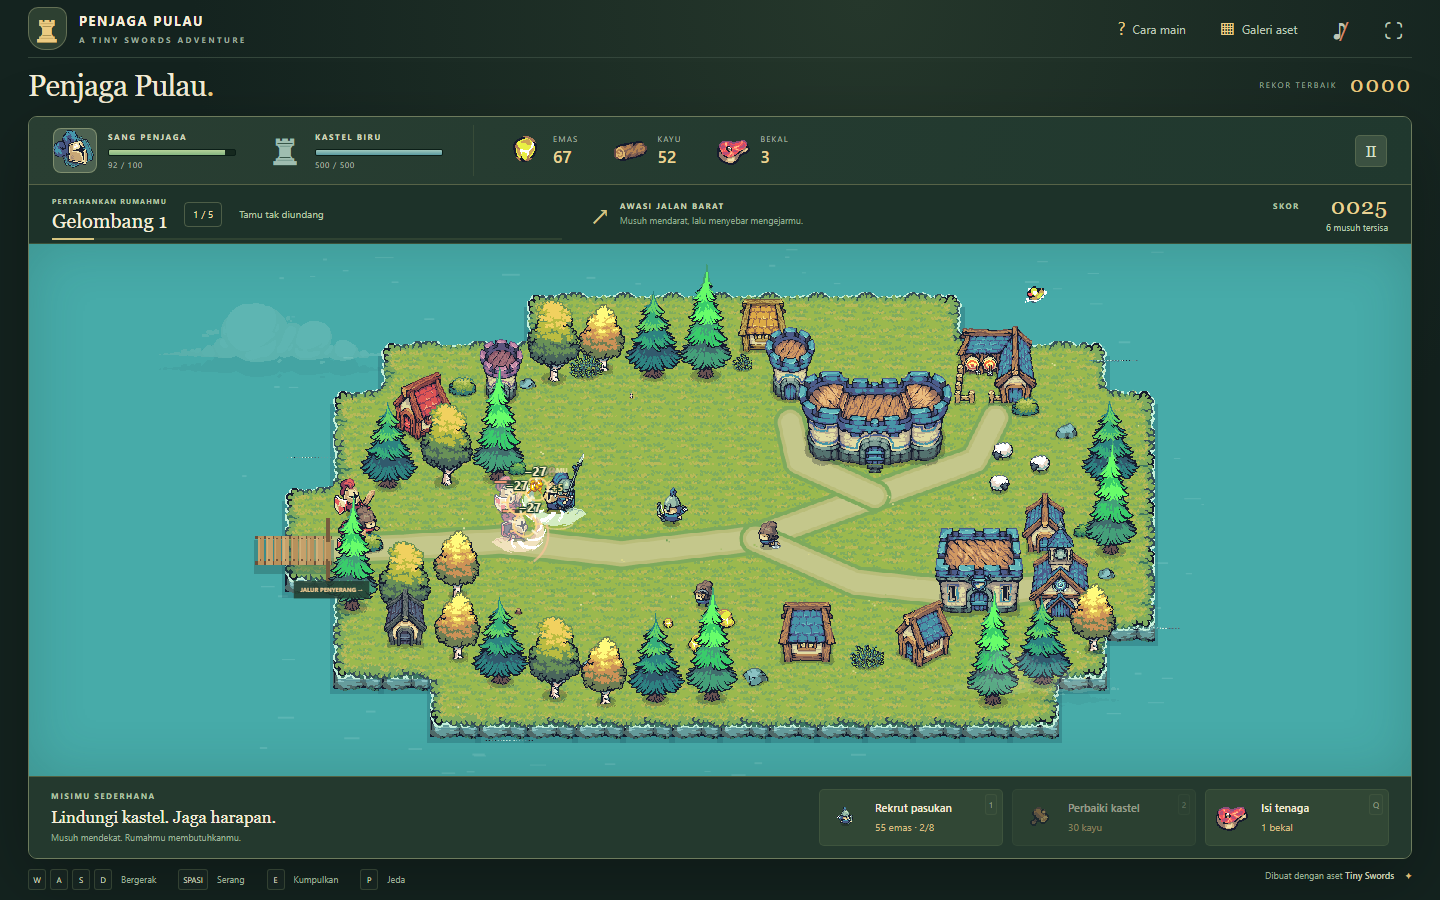
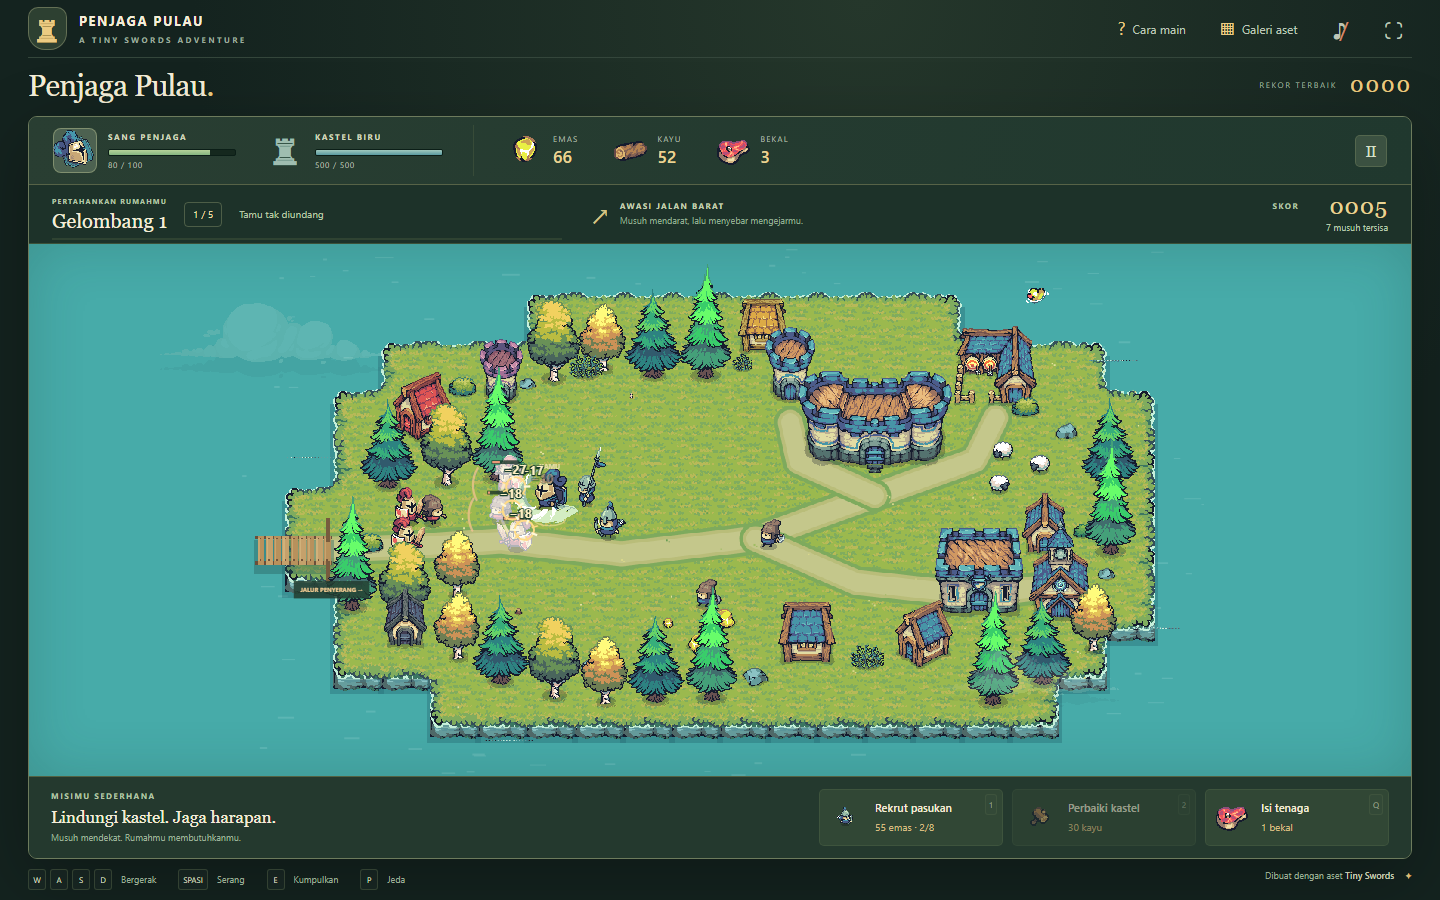
Perbaiki bug & Error Collision

diff --git a/game.js b/game.js
@@ -42,6 +42,29 @@
   const rows = { 1: [6, 14], 2: [3, 17], 3: [2, 18], 4: [2, 18], 5: [1, 18], 6: [1, 18], 7: [2, 18], 8: [2, 17], 9: [4, 16] };
   const land = (c, r) => !!rows[r] && c >= rows[r][0] && c <= rows[r][1];
   const onLand = (x, y) => land(Math.floor(x / TILE), Math.floor(y / TILE)) && x > 80 && x < 1195 && y > 80 && y < 630;
+  function canStand(x, y) {
+    // Stay inside the visible grass edge, including diagonal shore corners.
+    for (let i = 0; i < 8; i++) {
+      const angle = i * Math.PI / 4;
+      if (!onLand(x + Math.cos(angle) * 23, y + Math.sin(angle) * 23)) return false;
+    }
+    return onLand(x, y);
+  }
+  function translateEntity(entity, dx, dy) {
+    const steps = Math.max(1, Math.ceil(Math.hypot(dx, dy) / 4));
+    for (let i = 0; i < steps; i++) {
+      if (canStand(entity.x + dx / steps, entity.y)) entity.x += dx / steps;
+      if (canStand(entity.x, entity.y + dy / steps)) entity.y += dy / steps;
+    }
+  }
+  function keepOnLand(entity) {
+    if (canStand(entity.x, entity.y)) return;
+    for (let radius = 4; radius <= 320; radius += 4) for (let i = 0; i < 24; i++) {
+      const x = entity.x + Math.cos(i * Math.PI / 12) * radius, y = entity.y + Math.sin(i * Math.PI / 12) * radius;
+      if (canStand(x, y)) { entity.x = x; entity.y = y; return; }
+    }
+    entity.x = 788; entity.y = 370;
+  }
   const trees = [
     [200, 330, 1], [153, 488, 2], [222, 505, 3], [292, 554, 4], [349, 589, 1],
     [420, 185, 3], [484, 173, 4], [551, 184, 1], [621, 181, 2],
@@ -49,7 +72,7 @@
     [421, 604, 3], [487, 613, 4], [554, 613, 1], [629, 608, 2],
     [278, 322, 3], [346, 317, 2], [291, 472, 4],
   ].map(([x, y, variant], i) => ({ x, y, variant, seed: i * .71, radius: variant < 3 ? 14 : 12, size: variant < 3 ? 166 : 150, resource: i < 5 || i >= 18 }));
-  const roadEntry = { x: 102, y: 405 };
+  const roadEntry = { x: 110, y: 405 };
   const goldNodes = [[571, 534, 1], [610, 563, 3], [646, 531, 4]].map(([x, y, variant]) => ({ x, y, variant, radius: 13 }));
   const sheep = [[1014, 298], [1063, 316], [1010, 342]].map(([x, y], i) => ({ x, y, originX: x, originY: y, seed: i * 2, cooldown: 0 }));
   const buildings = [
@@ -96,6 +119,7 @@
       }
     }
     for (const tool of ['Axe', 'Pickaxe']) paths.add(blue('Pawn', `Interact ${tool}`));
+    paths.add(blue('Pawn', 'Idle Meat'));
     paths.add(blue('Monk', 'Heal_Effect'));
     for (const b of buildings) paths.add(`Buildings/${b.color} Buildings/${b.name}.png`);
     for (let i = 1; i <= 4; i++) {
@@ -221,6 +245,16 @@
     ctx.fillStyle = color; ctx.fillRect(x - width / 2, y, width * clamp(hp / max, 0, 1), 3);
   }
   function drawUnit(u, isHero = false) {
+    if (isHero && hero.work) {
+      const work = hero.work, progress = clamp(work.elapsed / work.duration, 0, 1);
+      const action = work.node.type === 'wood' ? 'Interact Axe' : work.node.type === 'gold' ? 'Interact Pickaxe' : 'Idle Meat';
+      drawSprite(blue('Pawn', action), u.x, u.y, 136, work.elapsed, spriteFrame(blue('Pawn', action)).count / work.duration, u.facing, 1, true);
+      healthBar(u.x, u.y - 63, progress, 1, '#eed18b', 49);
+      ctx.fillStyle = '#fff1c5'; ctx.font = 'bold 10px Segoe UI'; ctx.textAlign = 'center';
+      ctx.fillText(work.node.type === 'wood' ? 'MENEBANG' : work.node.type === 'gold' ? 'MENAMBANG' : 'MENGAMBIL BEKAL', u.x, u.y - 72);
+      ctx.strokeStyle = '#f4d88baa'; ctx.lineWidth = 2; ctx.beginPath(); ctx.ellipse(work.node.x, work.node.y, 24, 10, 0, 0, Math.PI * 2); ctx.stroke();
+      return;
+    }
     const kind = isHero ? 'Warrior' : u.kind, color = isHero ? 'Blue' : u.color;
     const action = u.attack > 0 ? ({ Warrior: 'Attack1', Archer: 'Shoot', Lancer: 'Right_Attack', Monk: 'Heal', Pawn: 'Idle' }[kind]) : u.moving ? 'Run' : 'Idle';
     const size = kind === 'Lancer' ? (isHero ? 194 : 178) : isHero ? 136 : 113;
@@ -346,10 +380,7 @@
   function move(entity, dx, dy, dt, speed) {
     const len = Math.hypot(dx, dy); entity.moving = len > .05;
     if (!entity.moving) return;
-    const nx = entity.x + dx / len * speed * dt, ny = entity.y + dy / len * speed * dt;
-    const canStand = (x, y) => onLand(x - 11, y) && onLand(x + 11, y) && onLand(x, y + 5);
-    if (canStand(nx, entity.y)) entity.x = nx;
-    if (canStand(entity.x, ny)) entity.y = ny;
+    translateEntity(entity, dx / len * speed * dt, dy / len * speed * dt);
     if (Math.abs(dx) > .1) entity.facing = dx > 0 ? 1 : -1;
     for (const o of obstacleList) {
       const vx = entity.x - o.x, vy = entity.y - o.y, d = Math.hypot(vx, vy), min = o.radius + 10;
@@ -386,6 +417,7 @@
   function startGame() {
     if (!initialized) return;
     Object.assign(hero, { x: 788, y: 370, hp: 100, facing: 1, attack: 0, cooldown: 0, invuln: 0, moving: false, hitFlash: 0, stagger: 0, knockX: 0, knockY: 0, strike: null });
+    hero.work = null;
     castle.hp = 500; castle.hitFlash = 0; gold = 80; wood = 40; food = 3; score = 0; kills = 0; recruitIndex = 0;
     enemies = []; allies = []; effects = []; floaters = []; drops = []; projectiles = []; impacts = []; hitStop = 0; damageDealt = 0; damageTaken = 0;
     for (const s of sheep) s.cooldown = 0;
@@ -433,9 +465,10 @@
     const w = waves[waveIndex], kind = w.types[spawned % w.types.length];
     const lane = [-1, 0, 1, -2, 2][spawned % 5];
     const entry = { x: roadEntry.x + rand(-3, 3), y: roadEntry.y + lane * 7 };
-    const hp = ({ Warrior: 50, Archer: 34, Lancer: 60, Monk: 38, Pawn: 32 }[kind]) + waveIndex * 5;
+    const hp = ({ Warrior: 62, Archer: 43, Lancer: 82, Monk: 48, Pawn: 38 }[kind]) + waveIndex * 9;
     enemies.push({ x: entry.x, y: entry.y, kind, color: waveIndex === 4 ? ['Red', 'Purple', 'Yellow', 'Black'][spawned % 4] : w.color, hp, maxHp: hp, facing: 1, moving: false, attack: 0, cooldown: rand(.1, .6), seed: rand(0, 10), speed: kind === 'Lancer' ? 59 : kind === 'Pawn' ? 75 : 66, team: 'enemy', entering: true, lane, flankAngle: spawned * 2.399963 + waveIndex * .8, flankSign: spawned % 2 ? -1 : 1, hitFlash: 0, stagger: 0, knockX: 0, knockY: 0, strike: null });
     addEffect('Particle FX/Dust_02.png', entry.x, entry.y, 48); spawned++;
+    const enemy = enemies[enemies.length - 1]; enemy.speed += waveIndex * 5; enemy.chargeCooldown = 2; enemy.charge = 0;
   }
   function recruitUnit(free = false) {
     if (state !== 'playing') return;
@@ -472,9 +505,23 @@
     return closest;
   }
   function gather() {
-    if (state !== 'playing' || gatherCooldown > 0) return;
+    if (state !== 'playing' || gatherCooldown > 0 || hero.work || hero.attack > 0 || hero.stagger > 0) return;
     const node = nearestResource(); if (!node) return;
-    gatherCooldown = node.type === 'food' ? 1.2 : .72;
+    hero.work = { node, elapsed: 0, duration: node.type === 'food' ? .7 : .9 };
+    hero.facing = node.x < hero.x ? -1 : 1; hero.moving = false;
+  }
+  function updateWork(dt) {
+    const work = hero.work; if (!work) return;
+    if (dist(hero, work.node) > 88 || hero.stagger > 0) { hero.work = null; return; }
+    const previousTime = work.elapsed;
+    work.elapsed += dt;
+    if (previousTime < work.duration * .55 && work.elapsed >= work.duration * .55) {
+      addEffect('Particle FX/Dust_01.png', work.node.x, work.node.y - 8, 45, .4);
+      tone(work.node.type === 'gold' ? 660 : 190, .09, 'triangle', .025, work.node.type === 'gold' ? 420 : 110);
+    }
+    if (work.elapsed < work.duration) return;
+    const node = work.node; hero.work = null; gatherCooldown = .18;
+    if (node.type === 'food' && node.original.cooldown > 0) return;
     if (node.type === 'wood') { wood += 8; float('+8 kayu', node.x, node.y); }
     if (node.type === 'gold') { gold += 10; float('+10 emas', node.x, node.y); }
     if (node.type === 'food') { food++; node.original.cooldown = 12; float('+1 bekal', node.x, node.y); }
@@ -496,6 +543,7 @@
     } else if (target === castle) { shake = Math.max(shake, 2); addEffect('Particle FX/Explosion_02.png', castle.x + rand(-45, 45), castle.y - 20, 65, .35, 24); }
     else if (source === hero) { hitStop = .035; shake = Math.max(shake, 1.5); tone(280, .08, 'square', .017, 90); }
     if (target !== castle) {
+      if (target === hero) hero.work = null;
       const force = target.kind === 'Lancer' ? 140 : target === hero ? 195 : 255;
       target.knockX = Math.cos(angle) * force; target.knockY = Math.sin(angle) * force;
       target.stagger = target === hero ? .09 : .12;
@@ -511,7 +559,8 @@
   }
   function heroAttack() {
     if (hero.cooldown > 0 || hero.stagger > 0) return;
-    hero.attack = hero.attackDuration = .38; hero.cooldown = .46;
+    hero.work = null;
+    hero.attack = hero.attackDuration = .42; hero.cooldown = .58;
     const targets = enemies.filter(e => e.hp > 0 && dist(hero, e) < 108);
     if (targets.length) hero.facing = targets[0].x < hero.x ? -1 : 1;
     hero.strike = { timer: .12 };
@@ -519,7 +568,7 @@
   }
   function fireArrow(u, target) {
     const d = Math.max(1, dist(u, target));
-    projectiles.push({ x: u.x, y: u.y - 5, vx: (target.x - u.x) / d * 360, vy: (target.y - u.y) / d * 360, color: u.color, team: u.team, target, source: u, damage: u.team === 'ally' ? 17 : 7, life: 1.4 });
+    projectiles.push({ x: u.x, y: u.y - 5, vx: (target.x - u.x) / d * 360, vy: (target.y - u.y) / d * 360, color: u.color, team: u.team, target, source: u, damage: u.team === 'ally' ? 17 : 10 + waveIndex * 2, life: 1.4 });
   }
   function nearest(entity, candidates, limit = Infinity) {
     let target = null;
@@ -528,6 +577,7 @@
   }
   function updateUnit(u, dt) {
     u.attack = Math.max(0, u.attack - dt); u.cooldown -= dt;
+    u.chargeCooldown = (u.chargeCooldown || 0) - dt; u.charge = Math.max(0, (u.charge || 0) - dt);
     if (u.hp <= 0) return;
     if (u.strike) {
       u.strike.timer -= dt;
@@ -559,22 +609,30 @@
     }
     const target = u.team === 'ally' ? nearest(u, enemies, 650) : nearest(u, [hero, ...allies], 160) || (dist(u, castle) < 130 && dist(u, hero) > 420 ? castle : hero);
     if (!target) { if (dist(u, { x: u.homeX, y: u.homeY }) > 35) steerMove(u, { x: u.homeX, y: u.homeY }, dt); else u.moving = false; return; }
-    const d = dist(u, target), range = u.kind === 'Archer' ? 205 : target === castle ? 88 : u.kind === 'Lancer' ? 66 : 51;
+    const d = dist(u, target), range = u.kind === 'Archer' ? 225 : target === castle ? 88 : u.kind === 'Lancer' ? 91 : 51;
+    if (u.team === 'enemy' && u.kind === 'Archer' && d < 145 && !u.strike) {
+      const retreat = { x: u.x + (u.x - target.x), y: u.y + (u.y - target.y) };
+      steerMove(u, retreat, dt, u.speed * .95); u.facing = target.x < u.x ? -1 : 1;
+      if (u.cooldown <= 0) { u.attack = u.attackDuration = .72; u.cooldown = 1.6; u.strike = { timer: .31, target, range: 225 }; }
+      return;
+    }
+    if (u.team === 'enemy' && u.kind === 'Warrior' && d > 100 && d < 250 && u.chargeCooldown <= 0) { u.charge = .65; u.chargeCooldown = 3.8; addEffect('Particle FX/Dust_01.png', u.x, u.y, 42); }
     if (d > range) {
       const radius = u.team === 'enemy' ? Math.min(100, d * .35) : 10;
       const angle = u.flankAngle || u.seed;
       const aim = { x: target.x + Math.cos(angle) * radius, y: target.y + Math.sin(angle) * radius };
-      steerMove(u, onLand(aim.x, aim.y) ? aim : target, dt);
+      steerMove(u, canStand(aim.x, aim.y) ? aim : target, dt, u.speed * (u.charge > 0 ? 1.5 : 1));
     } else {
       u.moving = false; u.facing = target.x < u.x ? -1 : 1;
       if (u.cooldown <= 0) {
-        u.attack = u.attackDuration = u.kind === 'Archer' ? .72 : .4; u.cooldown = u.kind === 'Archer' ? 1.65 : u.team === 'ally' ? .9 : 1.4;
-        u.strike = { timer: u.kind === 'Archer' ? .31 : .16, target, range, damage: u.team === 'ally' ? 18 : target === castle ? 9 : 8 };
+        u.attack = u.attackDuration = u.kind === 'Archer' ? .72 : .4; u.cooldown = u.kind === 'Archer' ? 1.6 : u.team === 'ally' ? .9 : Math.max(.85, 1.25 - waveIndex * .08);
+        u.strike = { timer: u.kind === 'Archer' ? .31 : u.kind === 'Lancer' ? .24 : .2, target, range, damage: u.team === 'ally' ? 18 : (target === castle ? 13 : u.kind === 'Lancer' ? 13 : 10) + waveIndex * 2 };
       }
     }
   }
 
   function update(dt) {
+    for (const u of [hero, ...allies, ...enemies]) keepOnLand(u);
     if (castle.hp <= 0 || hero.hp <= 0) { finish(false); return; }
     if (hitStop > 0) { hitStop -= dt; return; }
     elapsed += dt; gatherCooldown = Math.max(0, gatherCooldown - dt); hero.cooldown = Math.max(0, hero.cooldown - dt); hero.attack = Math.max(0, hero.attack - dt); hero.invuln = Math.max(0, hero.invuln - dt);
@@ -585,12 +643,15 @@
       hero.strike.timer -= dt;
       if (hero.strike.timer <= 0) {
         hero.strike = null;
-        for (const e of enemies) if (e.hp > 0 && dist(hero, e) < 108) hurt(e, 27, hero);
+        const targets = enemies.filter(e => e.hp > 0 && dist(hero, e) < 94 && (e.x - hero.x) * hero.facing >= -12).sort((a, b) => dist(hero, a) - dist(hero, b)).slice(0, 3);
+        targets.forEach((e, i) => hurt(e, i === 0 ? 27 : 18, hero));
       }
     }
     const dx = Number(keys.has('d') || keys.has('arrowright')) - Number(keys.has('a') || keys.has('arrowleft'));
     const dy = Number(keys.has('s') || keys.has('arrowdown')) - Number(keys.has('w') || keys.has('arrowup'));
-    if (hero.stagger <= 0) move(hero, dx, dy, dt, 185 * (hero.attack > .19 ? .72 : 1));
+    if ((dx || dy) && hero.work) { hero.work = null; gatherCooldown = .2; }
+    if (hero.stagger <= 0) move(hero, dx, dy, dt, 185 * (hero.attack > 0 ? .55 : 1));
+    updateWork(dt);
     if (keys.has(' ') || pointerAttack) heroAttack();
     if (keys.has('e')) gather();
     for (const s of sheep) s.cooldown = Math.max(0, s.cooldown - dt);
@@ -600,14 +661,14 @@
       if (spawned < waves[waveIndex].count && spawnTimer <= 0) {
         const batch = Math.min(3, waves[waveIndex].count - spawned);
         for (let i = 0; i < batch; i++) spawnEnemy();
-        spawnTimer = waves[waveIndex].interval * 2.35;
+        spawnTimer = waves[waveIndex].interval * 1.9;
       }
     }
     for (const u of [...allies, ...enemies]) updateUnit(u, dt);
     // Soft separation keeps soldiers from drawing exactly on top of one another.
     for (const group of [allies, enemies]) for (let i = 0; i < group.length; i++) for (let j = i + 1; j < group.length; j++) {
       const a = group[i], b = group[j], d = dist(a, b);
-      if (d > .1 && d < 31) { const push = (31 - d) * Math.min(.45, dt * 7), px = (a.x - b.x) / d * push, py = (a.y - b.y) / d * push; if (onLand(a.x + px, a.y + py)) { a.x += px; a.y += py; } if (onLand(b.x - px, b.y - py)) { b.x -= px; b.y -= py; } }
+      if (d > .1 && d < 31) { const push = (31 - d) * Math.min(.45, dt * 7), px = (a.x - b.x) / d * push, py = (a.y - b.y) / d * push; translateEntity(a, px, py); translateEntity(b, -px, -py); }
     }
     for (const p of projectiles) {
       p.life -= dt; p.x += p.vx * dt; p.y += p.vy * dt;
@@ -761,6 +822,6 @@
   }
 
   // Read-only state for meaningful smoke tests and inspecting an active match.
-  window.PenjagaPulau = Object.freeze({ snapshot: () => ({ state, phase, wave: waveIndex + 1, waveTimer, spawned, enemies: enemies.map(u => ({ x: u.x, y: u.y, hp: u.hp, kind: u.kind, entering: u.entering, hitFlash: u.hitFlash, stagger: u.stagger })), allies: allies.map(u => ({ x: u.x, y: u.y, hp: u.hp, kind: u.kind })), hero: { x: hero.x, y: hero.y, hp: hero.hp, hitFlash: hero.hitFlash, stagger: hero.stagger }, impacts: impacts.length, damageDealt, damageTaken, castleHp: castle.hp, gold, wood, food, score, kills, loadedAssets: [...images.values()].filter(r => r.loaded).length, assetCount: manifest.size }) });
+  window.PenjagaPulau = Object.freeze({ snapshot: () => ({ state, phase, wave: waveIndex + 1, waveTimer, spawned, enemies: enemies.map(u => ({ x: u.x, y: u.y, hp: u.hp, kind: u.kind, entering: u.entering, hitFlash: u.hitFlash, stagger: u.stagger })), allies: allies.map(u => ({ x: u.x, y: u.y, hp: u.hp, kind: u.kind })), hero: { x: hero.x, y: hero.y, hp: hero.hp, hitFlash: hero.hitFlash, stagger: hero.stagger }, impacts: impacts.length, damageDealt, damageTaken, work: hero.work ? {type: hero.work.node.type, elapsed: hero.work.elapsed, duration: hero.work.duration} : null, castleHp: castle.hp, gold, wood, food, score, kills, loadedAssets: [...images.values()].filter(r => r.loaded).length, assetCount: manifest.size }) });
   resize(); preload(); requestAnimationFrame(frame);
 })();

diff --git a/README.md b/README.md
@@ -19,7 +19,7 @@ Lalu buka http://localhost:4173. Hentikan server dengan Ctrl+C. Untuk ponsel/tab
 | Tombol | Aksi |
 | --- | --- |
 | WASD / panah | Bergerak |
-| Spasi / tahan klik di arena | Serangan pedang di sekeliling ksatria |
+| Spasi / tahan klik di arena | Serangan pedang ke depan, maksimal tiga sasaran |
 | Tahan E dekat sumber daya | Pohon: +8 kayu; tambang: +10 emas; domba: +1 bekal |
 | 1 | Rekrut sekutu: pemanah, penombak, biarawan, ksatria; 40 emas, biarawan 55 |
 | 2 | Perbaiki kastel +140 nyawa, biaya 30 kayu |
@@ -70,3 +70,10 @@ Hak dan lisensi aset mengikuti paket Tiny Swords aslinya.
 - Pukulan mengenai sasaran pada bagian ayunan yang sesuai. Sasaran berkedip putih, memercikkan efek benturan, menampilkan angka damage, dan terdorong singkat. Panah juga menghasilkan efek yang sama. Menghindari jangkauan saat musuh bersiap menyerang dapat menggagalkan pukulannya.
 - Semua musuh masuk dari dermaga dan jalan barat dalam kelompok kecil. Setelah melewati pintu masuk, pasukan mengambil arah berbeda untuk mengepung pemain.
 - Panel gelombang dan skor berada di atas arena. Notifikasi lebih kecil dan tampil di tepi atas; arena, sumber daya, serta tombol aksi menyesuaikan layar laptop, ponsel, dan layar penuh.
+
+## Batas pulau, interaksi, dan kesulitan
+
+- Batas gerak memeriksa area pijakan melingkar dengan jarak aman dari pantai. Gerakan dipecah menjadi langkah kecil; dorongan pukulan dan desakan pasukan memakai aturan yang sama. Posisi di luar batas dipulihkan ke daratan.
+- Tahan E dekat pohon atau tambang untuk memainkan animasi kapak/beliung. Domba memakai animasi membawa bekal. Bar progres, debu, dan suara benturan menandai aksi; sumber daya diberikan setelah selesai. Bergerak, menyerang, atau terkena pukulan membatalkan pekerjaan yang belum selesai.
+- Pemanah lawan mundur ketika didekati, penombak memiliki jangkauan lebih jauh, dan ksatria merangsek lebih cepat secara berkala. Gelombang lanjut menaikkan nyawa, kecepatan, damage, dan laju kedatangan musuh.
+- Pedang kini mengenai maksimal tiga sasaran di depan penjaga, dengan damage lebih kecil pada sasaran tambahan. Gerakan melambat saat mengayun sehingga waktu menyerang lebih berarti.
